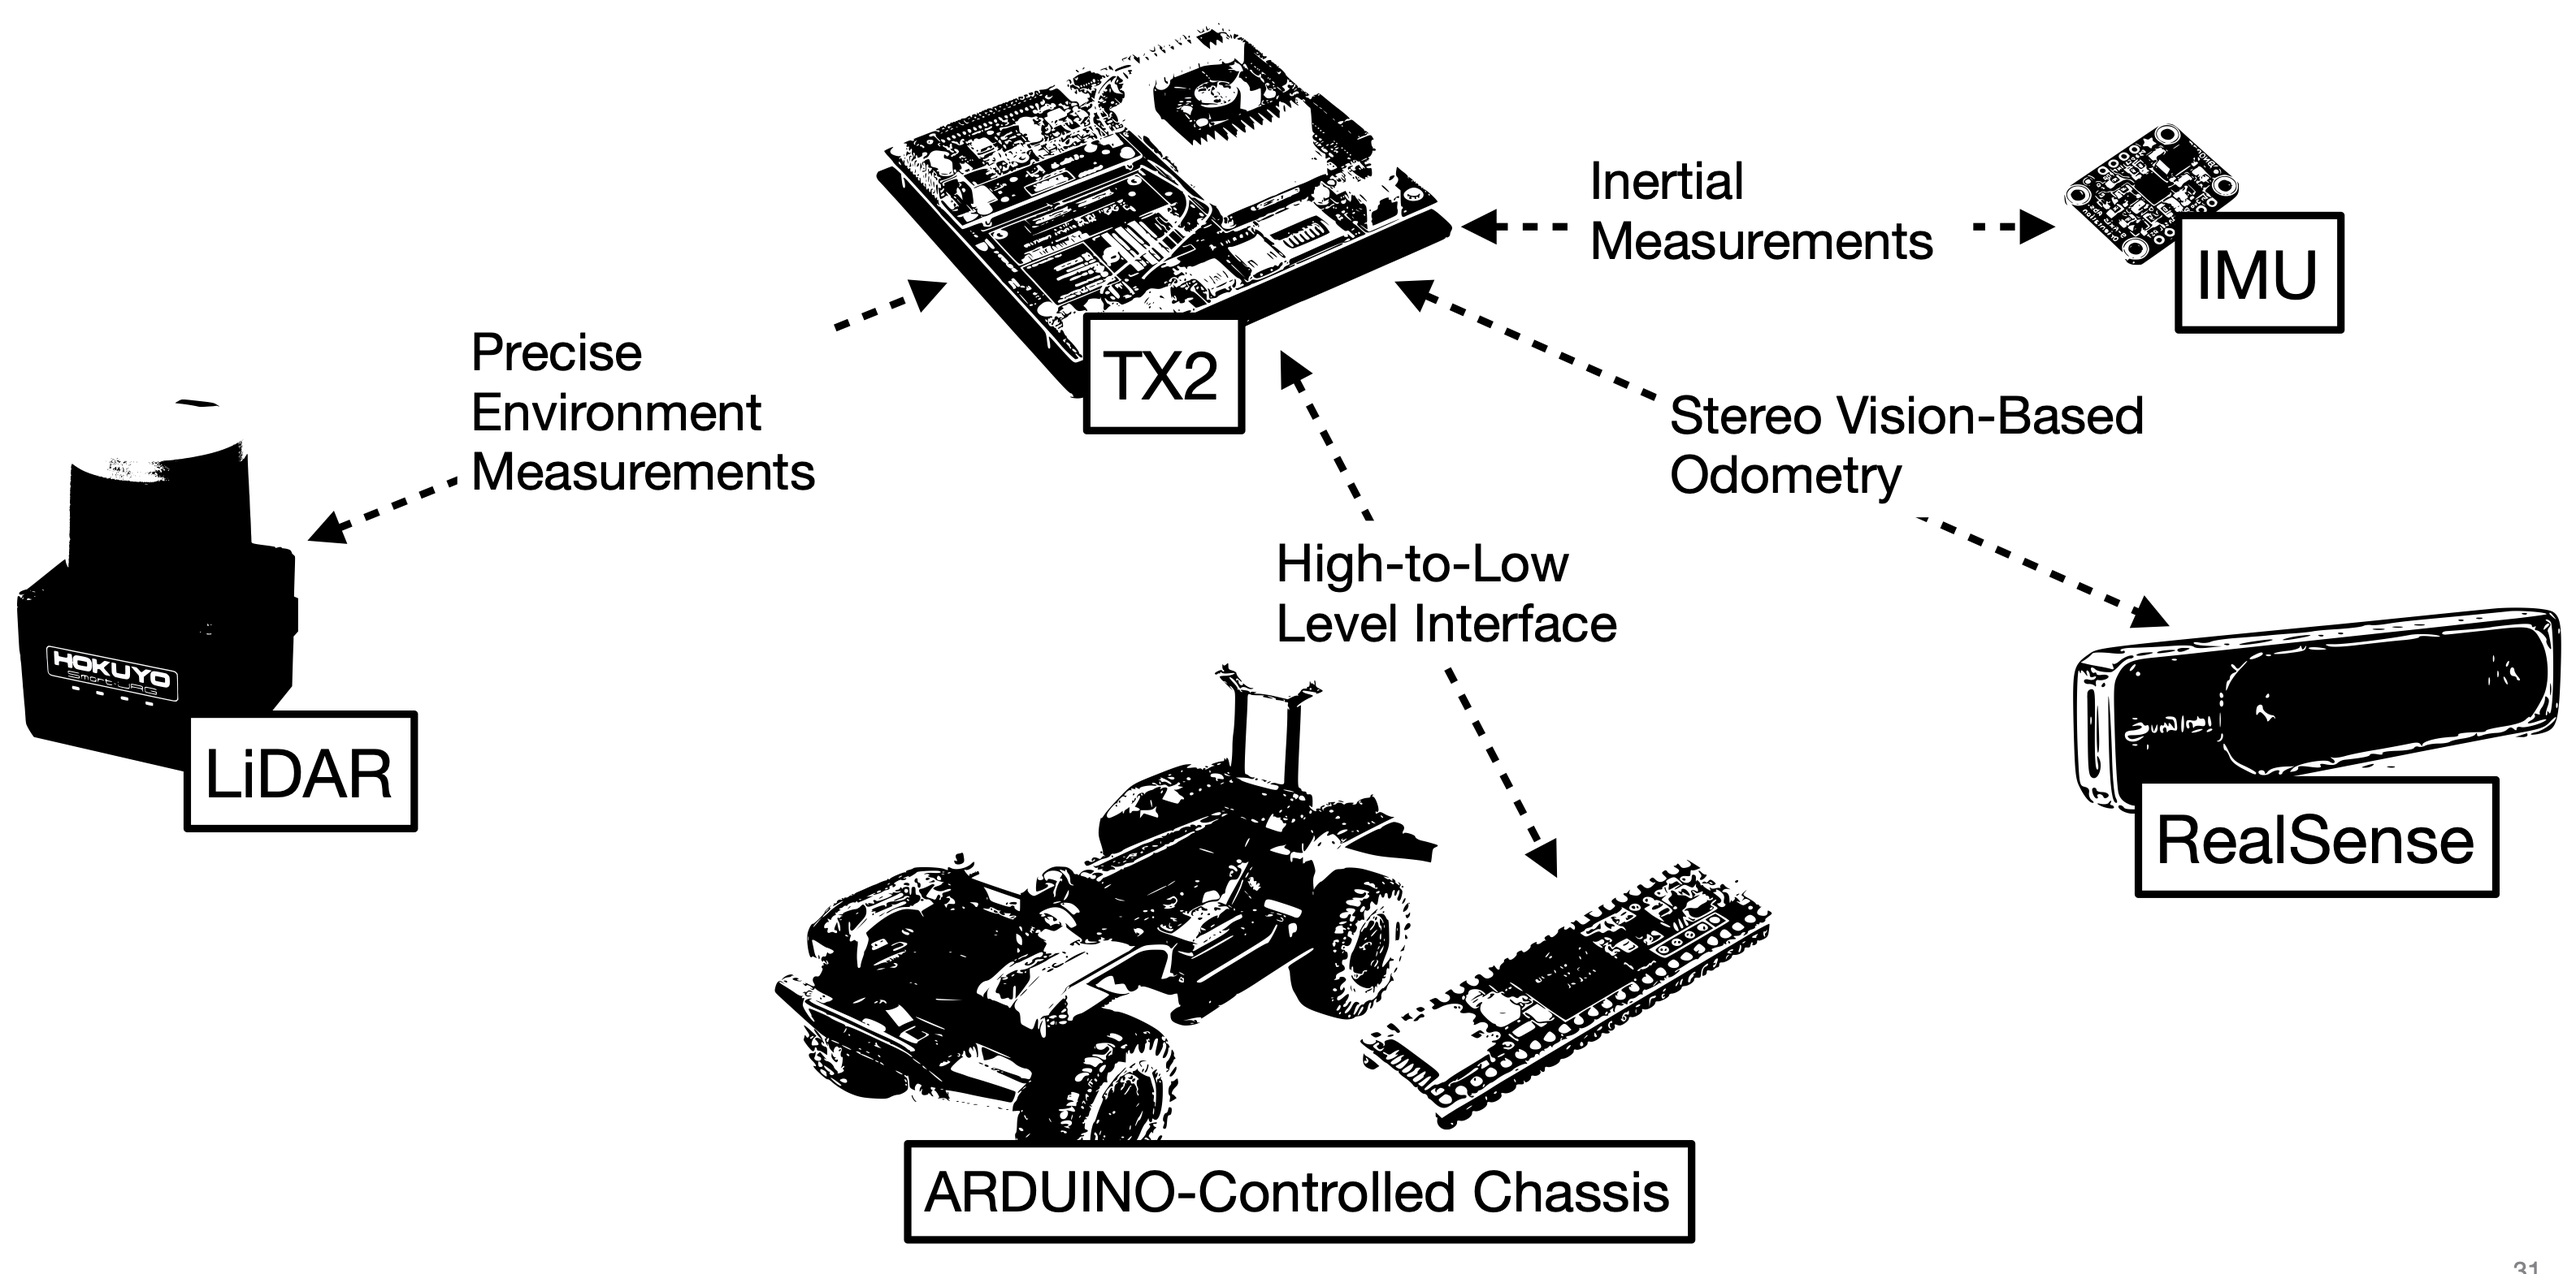
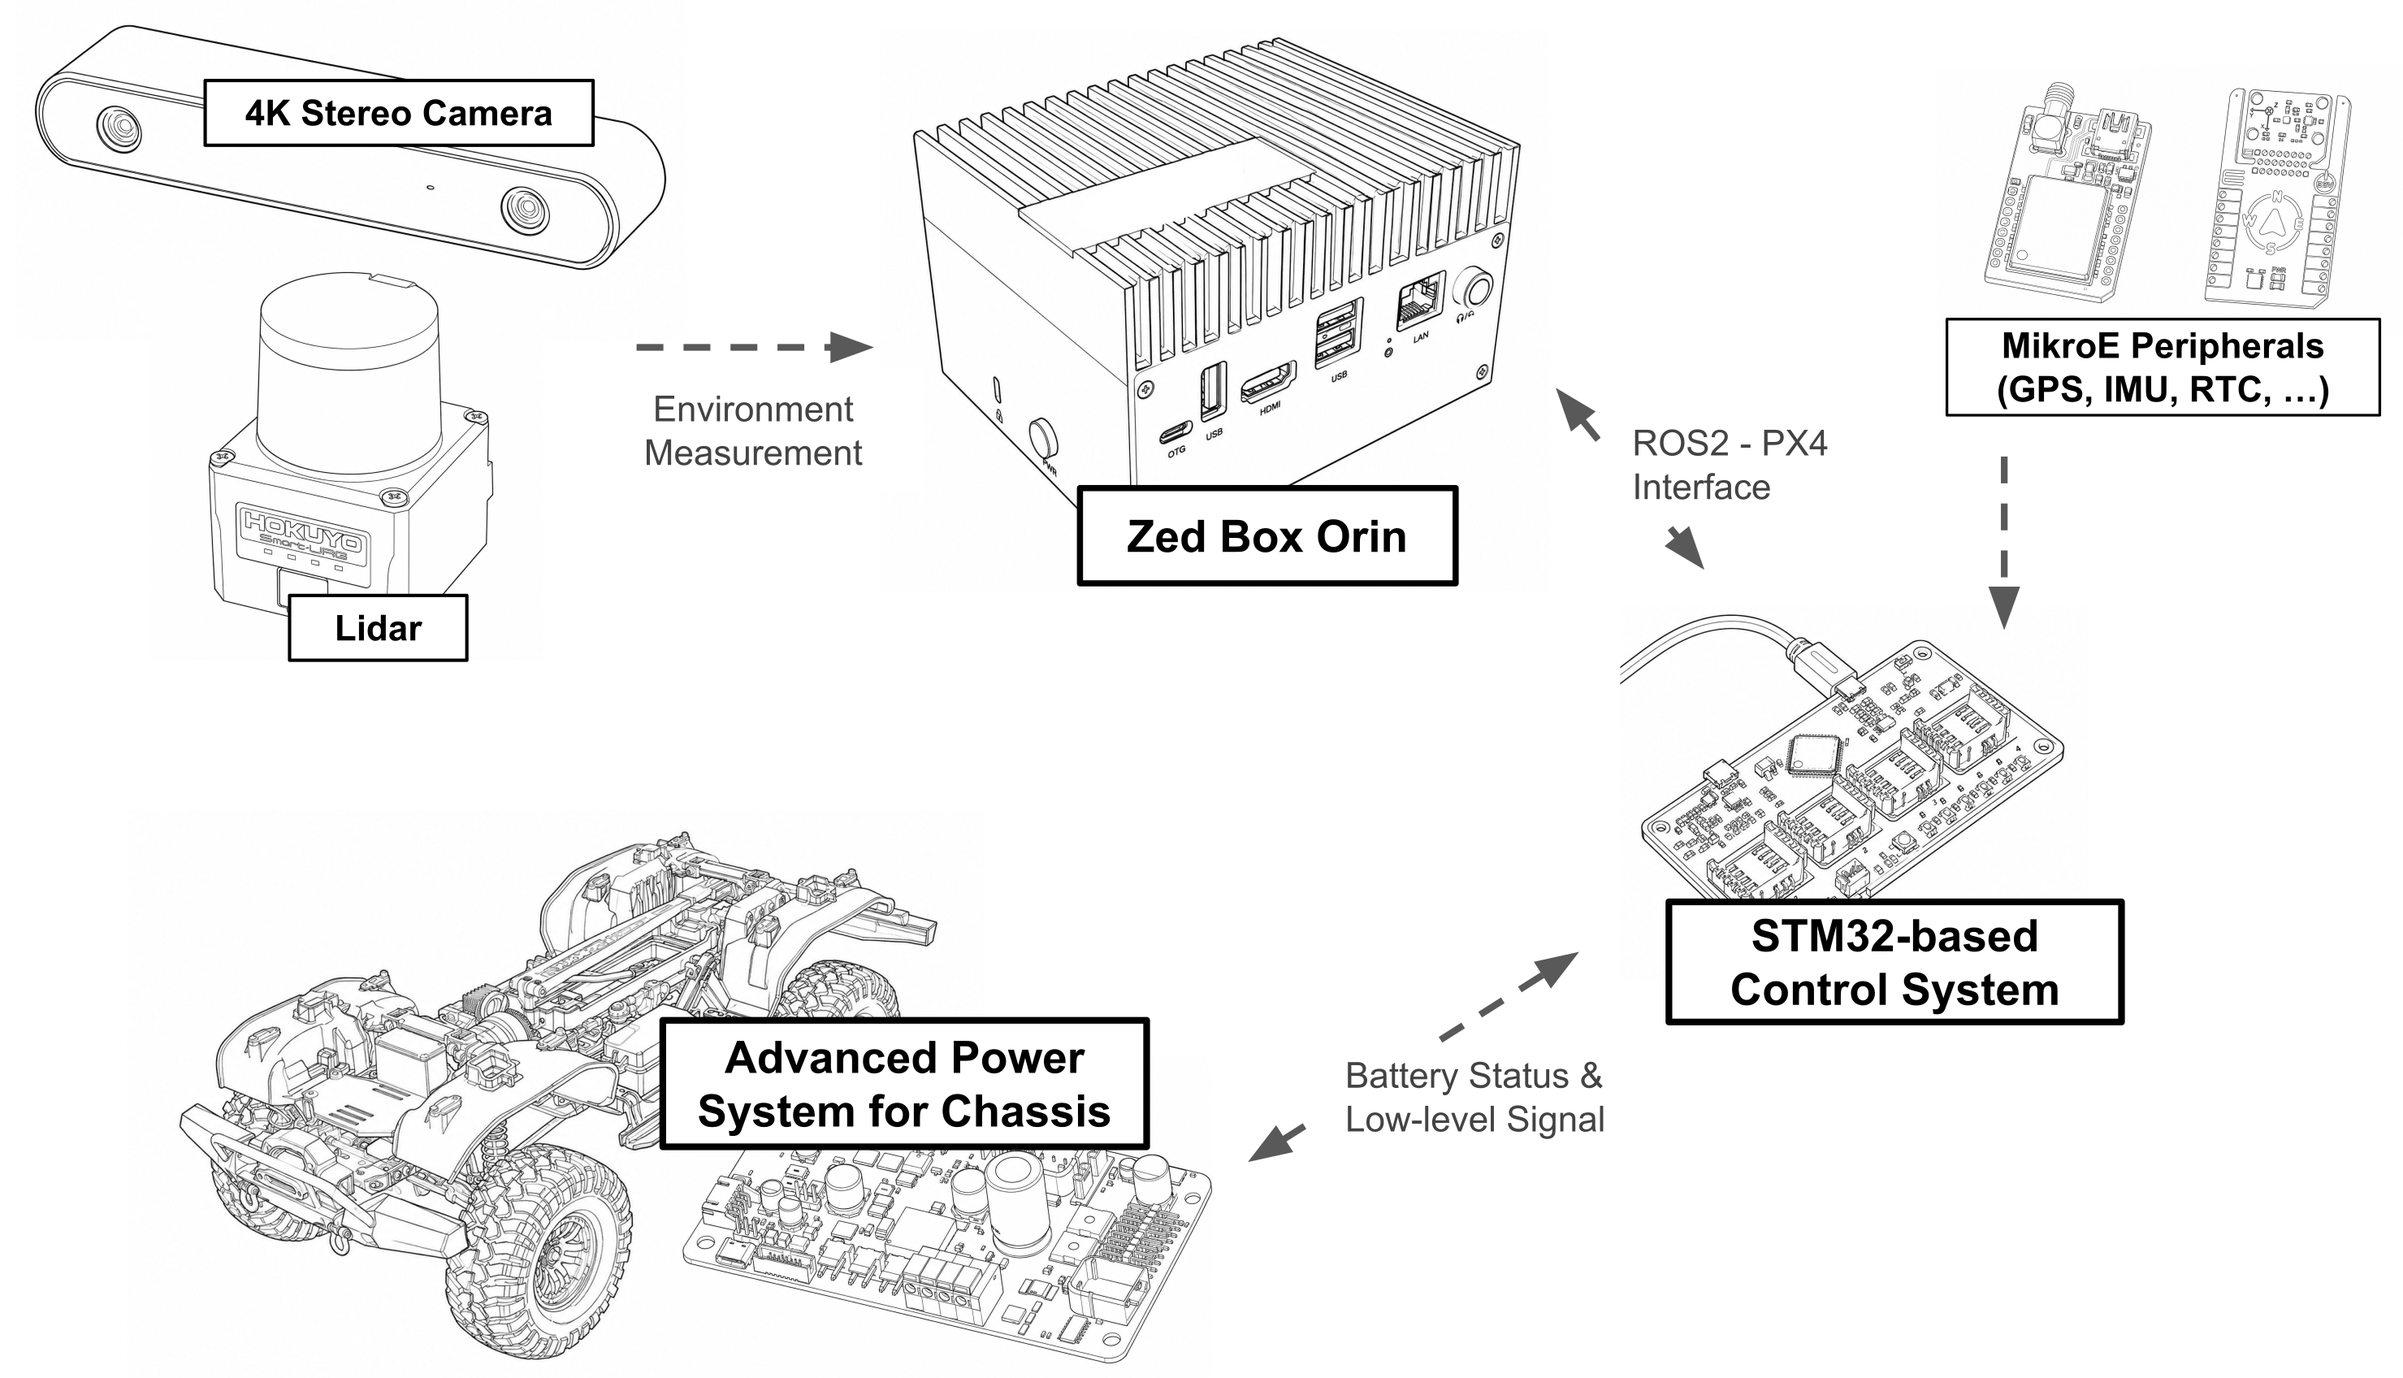
modified Tutorial 0 introduction.md

diff --git a/docs/tutorials/0_intro.md b/docs/tutorials/0_intro.md
@@ -1,36 +1,18 @@
 # Introduction
 
-In this tutorial, we will introduce the SVEA hardware and software, and discuss
-some of the organization around the SVEA software stack. This documentation covers
-the updated ROS 2 implementation with the new rosonic framework.
+In this tutorial, we will introduce the SVEA hardware and software, and discuss some of the organization around the SVEA software stack. This documentation covers the updated ROS 2 implementation with the new rosonic framework.
 
 ## Hardware
 
 ![svea hardware](../media/svea_hardware.png)
 
-The SVEA platform consists of the following hardware components:
+As described in the diagram above, the ZED Box Orin is the main computer where all sensor data goes and where all high-level decision+control is made. The system now runs ROS2 Jazzy on Ubuntu 22.04.
 
-1. [Single-channel LiDAR](https://www.hokuyo-usa.com/products/lidar-obstacle-detection/ust-10lx)
-2. TODO
-
-As described in the diagram above, the TX2 (or newer Jetson) is the main computer where all sensor
-data goes and where all high-level decision+control is made. The system now runs ROS 2 Jazzy
-on Ubuntu 22.04.
-
-The original RC remote still works to control the chassis, with some additional
-features added on. In particular, in addition to the RC remote's standard
-features, we have also added an override to the RC remote. By putting the metal
-switch on top of the remote into the most forward position, the Teensy will
-start ignoring any actuation commands from ROS nodes and **only listen
-to the RC remote**. Thus it's a good idea to always keep the remote around in case
-you need to stop the vehicle from doing something unsafe.
+The original RC remote still works to control the chassis, with some additional features added on. In particular, in addition to the RC remote's standard features, we have also added an override to the RC remote. By putting the metal switch on top(SWB) of the remote into the most forward position, the Teensy will start ignoring any actuation commands from ROS nodes and **only listen to the RC remote**. Thus it's a good idea to always keep the remote around in case you need to stop the vehicle from doing something unsafe.
 
 ## Low-Level Interface (LLI)
 
-To interface with the vehicle chassis, the main computer communicates with the Teensy
-arduino, which is connected to and manages the SPMB board. The system now uses
-micro-ROS for communication between the Teensy and the main computer, providing
-better real-time performance and lower latency compared to the previous rosserial implementation.
+To interface with the vehicle chassis, the main computer communicates with the STM32F7 board, which is connected to and manages the Power Management Board(PMB). 
 
 The low-level interface provides control over:
 
@@ -39,7 +21,7 @@ The low-level interface provides control over:
 - **High Gear**: Boolean flag for transmission gear selection
 - **Differential Lock**: Boolean flag for front/rear differential control
 
-The actual velocity range depends on the gear setting:
+Press SWA to switch between High/Low Gear. The actual velocity range depends on the gear setting:
 
 - **Low Gear (gear=0)**: Approximately ±1.7 m/s
 - **High Gear (gear=1)**: Approximately ±3.6 m/s
@@ -83,9 +65,6 @@ if __name__ == "__main__":
     MyNode.main()
 ```
 
-???+ info "Note"
-      You can also use normal ROS2 frame for svea.
-
 ## Development Workflow
 
 The modern SVEA development workflow emphasizes:
@@ -93,9 +72,12 @@ The modern SVEA development workflow emphasizes:
 1. **Simulation First**: Develop and test in simulation before moving to hardware
 2. **Modular Design**: Use interfaces and controllers as building blocks
 3. **Parameter-Driven**: Configure behavior through ROS parameters
-4. **Visualization**: Leverage RViz and custom visualization tools
+4. **Visualization**: Leverage Foxglove and custom visualization tools
 
 ## Next Steps
 
-In the next tutorial, we will guide you through implementing a pure pursuit
-controller and demonstrate the complete workflow from simulation to real vehicle deployment.
+In the next tutorial, we will guide you through implementing a pure pursuit controller and demonstrate the complete workflow from simulation to real vehicle deployment.
+
+## Task 1
+
+Play around with SVEA using RC
